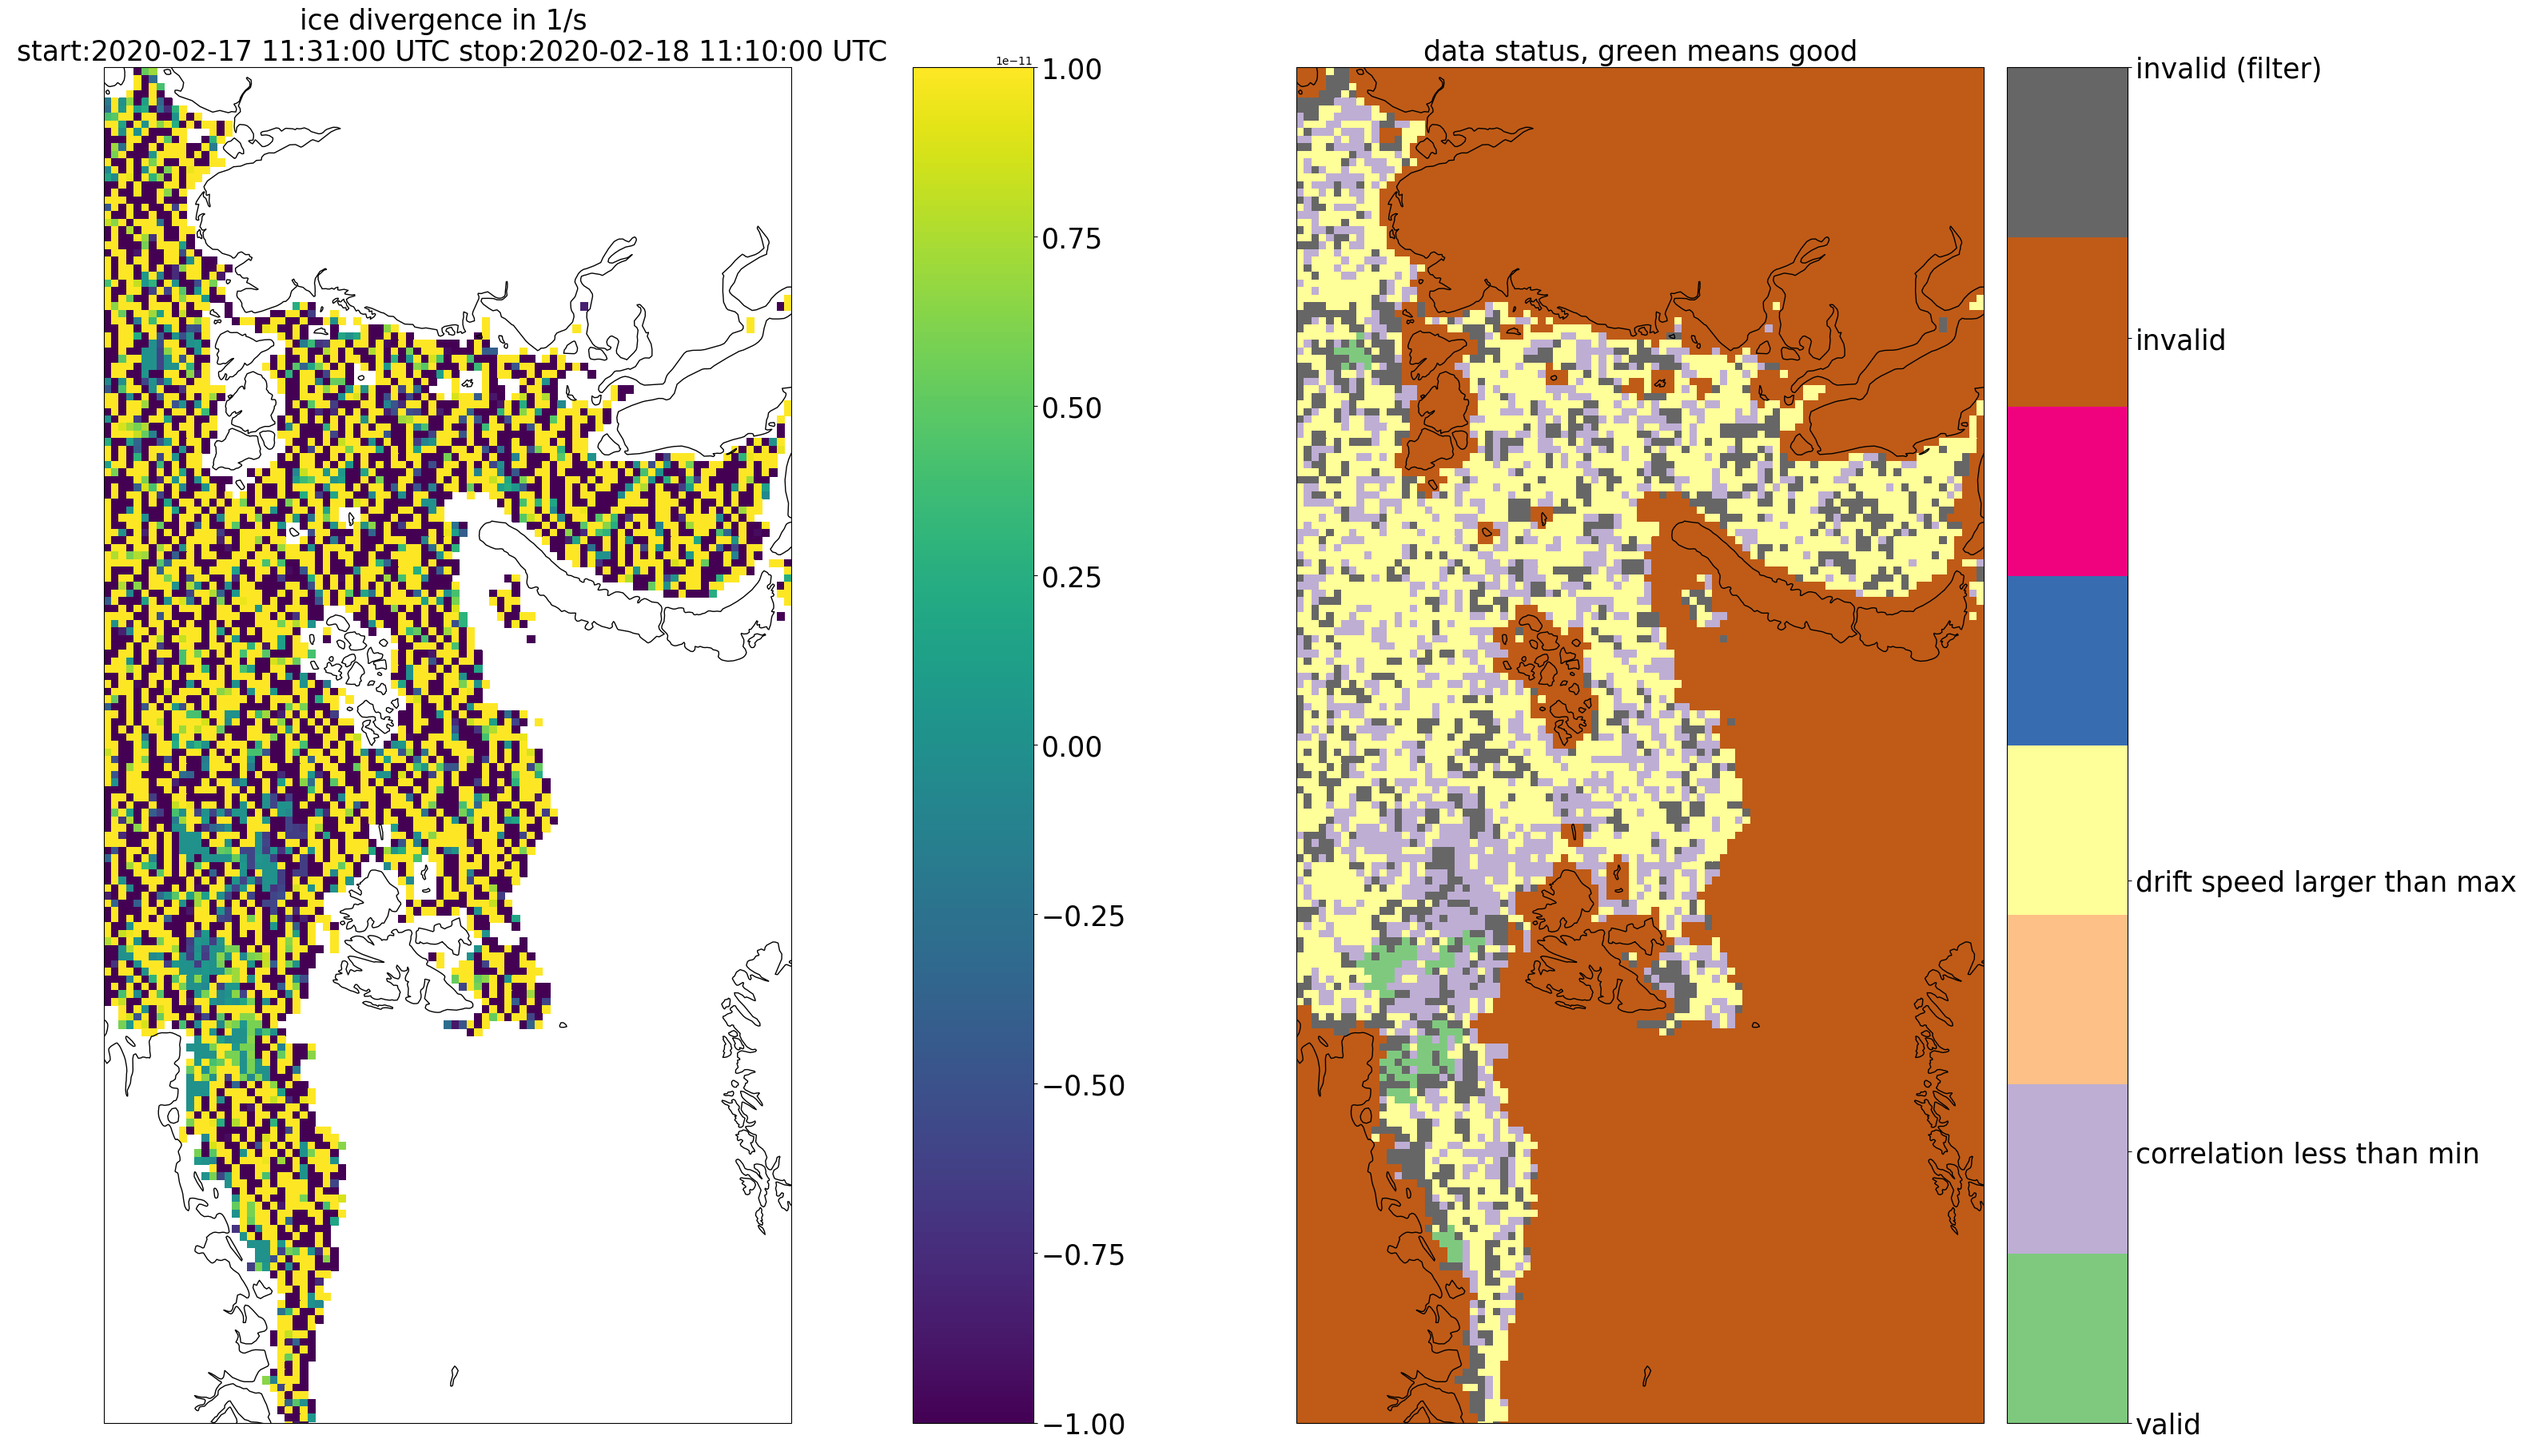
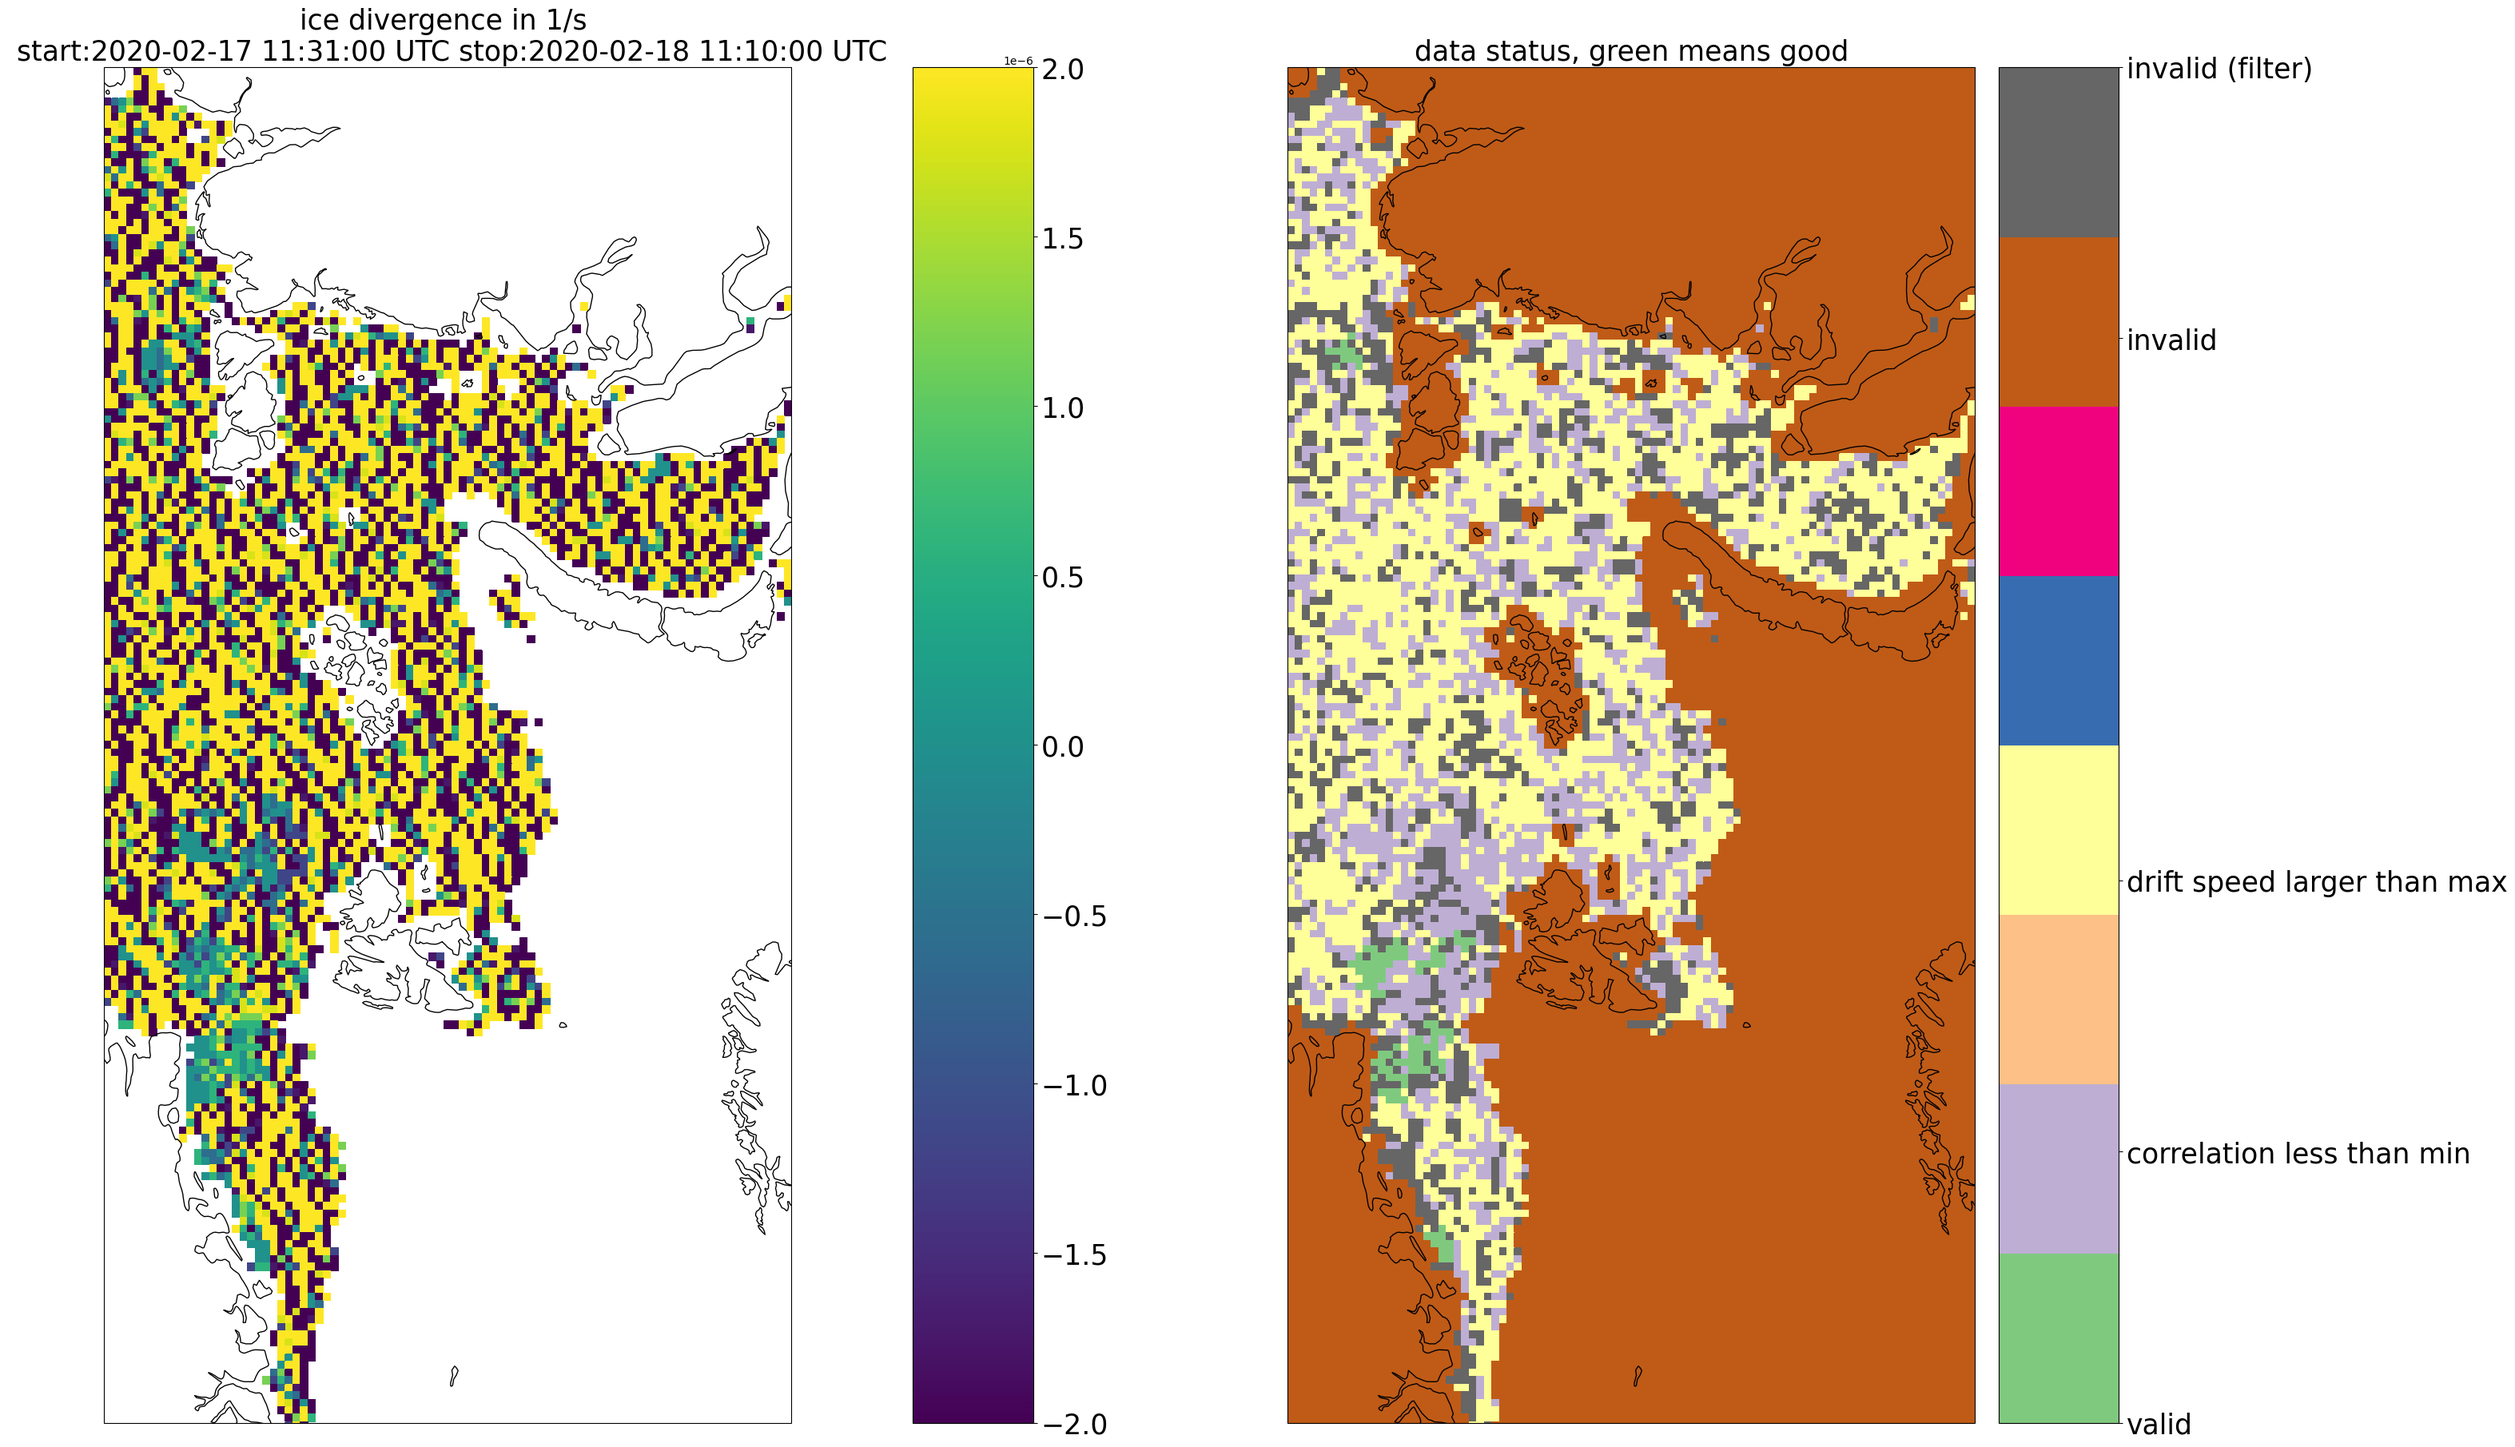
Fixed some Typos made new Plots

diff --git a/ice_divergence.py b/ice_divergence.py
@@ -72,7 +72,7 @@ class IceDivergence:
             # x, y = np.tile(x, (np.size(y), 1)), np.transpose(np.tile(y, (np.size(x), 1)))
 
             # calculate drift speed in the x and y direction in m/s
-            u, v = dX / (1000*dt), dY / (100*dt)
+            u, v = 1000 * dX / dt, 1000 * dY / dt
 
             # calculate divergence values
             du, dv = del_matrix_neighbour(u), del_matrix_neighbour(v)
@@ -85,7 +85,7 @@ class IceDivergence:
             fig, (ax1, ax2) = plt.subplots(1, 2, subplot_kw={"projection": ccrs.NorthPolarStereo(-45)},
                                            constrained_layout=True)
             fig.set_size_inches(32, 18)
-            cap = 1.e-11
+            cap = 2.e-06
             im = ax1.pcolormesh(ds['lon'][:], ds['lat'][:], div, transform=ccrs.PlateCarree(), vmax=cap, vmin=-cap)
             ax1.coastlines(resolution='50m')
             ax1.set_extent(ci.barent_extent, crs=ccrs.PlateCarree())
